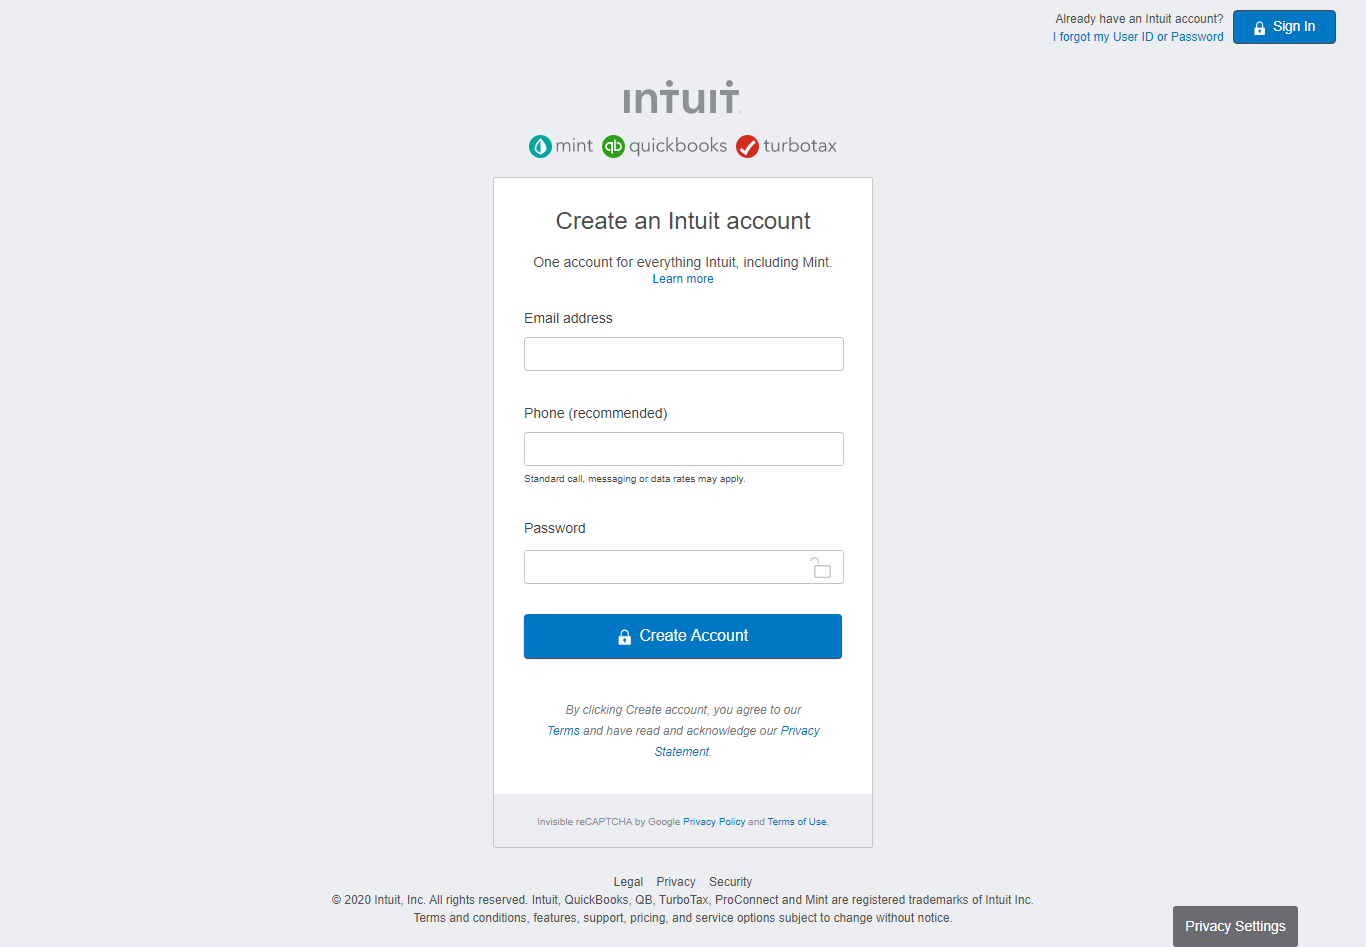
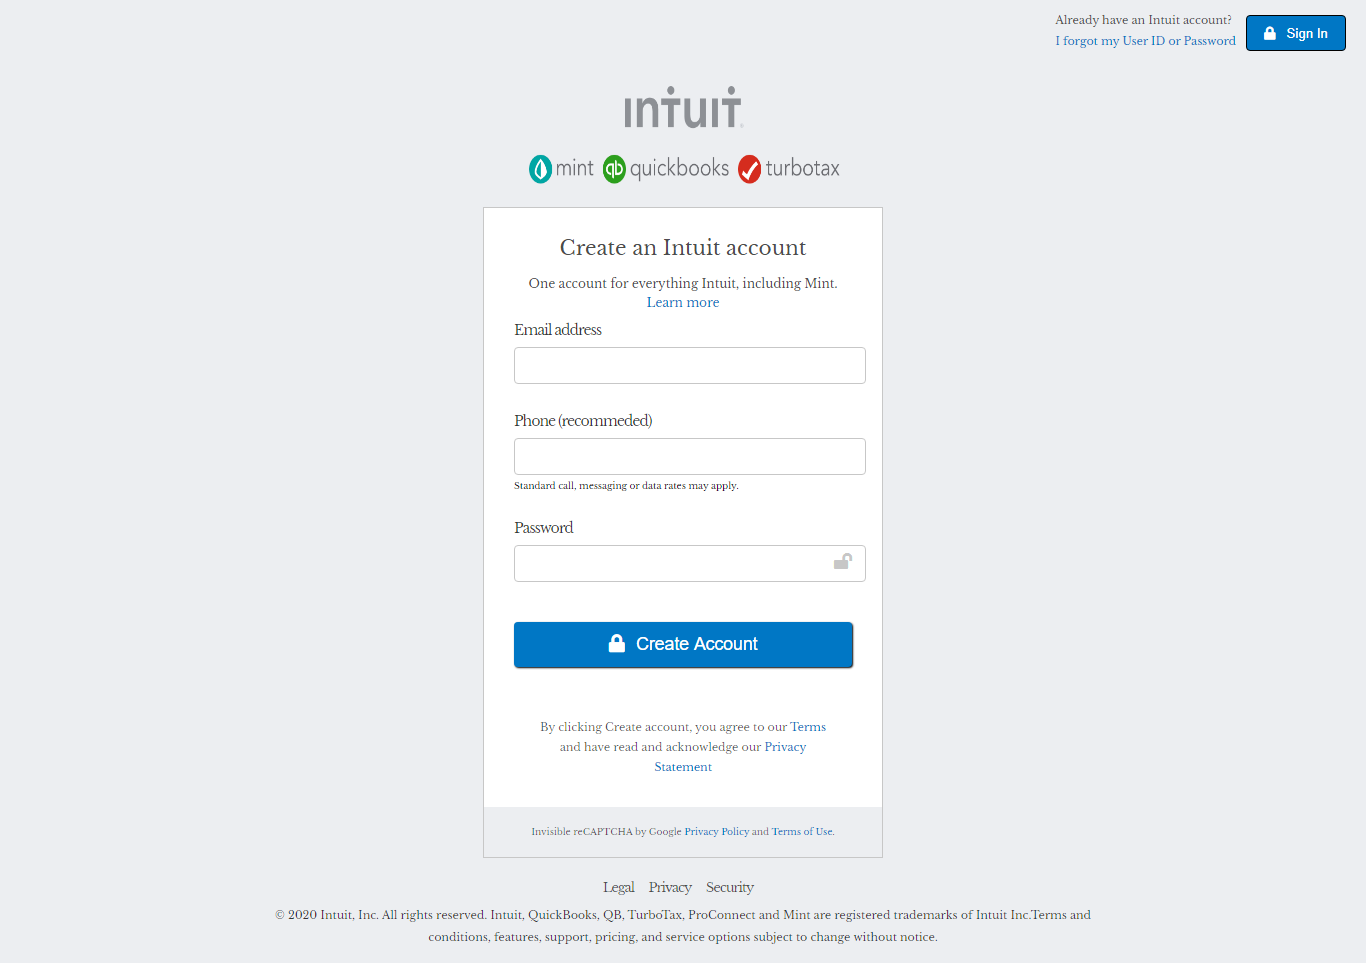
added footer style, over all styles reviewed and updated, and appscreenshot added.

diff --git a/assets/css/main.css b/assets/css/main.css
@@ -1,6 +1,6 @@
 body {
 	background: #ECEEF1;
-	font-family: 'Montserrat', sans-serif;
+	font-family: 'Libre Baskerville', serif;
 }
 
 /*container*/
@@ -30,8 +30,7 @@ body {
   #header span,
   #header a {
   	display: block;
-  	font-size: 13px;
-  	font-weight: bold;
+  	font-size: 11px;
   	padding: 5px;
 
   }
@@ -81,13 +80,13 @@ body {
   }
   .form-header h1 {
   	font-size: 20px;
-  	font-weight: 600;
+  	font-weight: 400;
   	padding-bottom: 20px;
   	color: #4C4C4C;
   	letter-spacing: 0px;
   }
   .form-header p {
-  	font-size: 13px;
+  	font-size: 12px;
   	color: #4C4C4C;
   }
   .form-header p a {
@@ -102,7 +101,7 @@ body {
   	display:block;
   	padding: 10px 0;
   	letter-spacing: -1px;
-  	color: #000;
+  	color: rgba(0, 0, 0, 0.8);
   	font-size: 14px;
   }
   ul li {
@@ -114,45 +113,50 @@ body {
   ul li input[type=password]{
   	width: 100%;
   	padding: 10px 6px;
-    border: none;
+  	transition:all 0.30s ease-in-out;
     border: 1px solid #c7c7c7;
     border-radius: 4px;
+    outline: none;
+
   }
 
   ul li input[type=text]:focus,
   ul li input[type=email]:focus,
   ul li input[type=textarea]:focus,
   ul li input[type=password]:focus{
-  	outline: none;
-  	border: 1px solid #0077C5;
-  	box-shadow: 0 0 5px #0077C5;
+  	box-shadow: 0 0 8px #88D5E9;
+	border: 1px solid #88D5E9;
   }
   section button.btn {
     width: 100%;
     border: none;
     padding: 12px;
     background-color: #0077C5;
+    border: 1px solid #000;
     border-radius: 4px;
     margin: 20px 0;
     color: #fff;
     box-shadow: 1px 1px 2px #000;
     font-size: 1.1rem;
+    font-weight: normal;
   }
 
   section .term-services {
-  	font-size: 12px;
-  	padding: 30px 10px;
+  	font-size: 11px;
+  	padding: 30px 25px;
   	line-height: 20px;
   	text-align: center;
+  	color: rgba(0, 0, 0, 0.7);
 
   }
   #main-body .form-footer {
     padding: 15px 30px;
-    font-size: 10px;
+    font-size: 9px;
     line-height: 20px;
     text-align: center;
     border: 1px solid #c7c7c7;
     border-top: none;
+    color: rgba(0, 0, 0, 0.7);
   }
 /* end of main-body */
 
@@ -164,29 +168,44 @@ body {
   	text-align: center;
   	margin: 0px 250px 15px 250px;
   }
+  
   #footer ul {
   	list-style: none;
   }
   #footer ul li {
   	display: inline-block;
+  	padding-bottom: 10px;
   }
   #footer ul li a {
      text-decoration: none;
      padding-right: 10px;
-     color: #000;
+     color: rgba(0, 0, 0, 0.8);
      font-size: 13px;
      letter-spacing: -1px;
   }
   #footer ul li a:hover {
   	  text-decoration: underline;
   }
+  ul li small {
+  	font-size: 9px;
+  	padding: 7px 0;
+  }
   #footer p {
-  	font-size: 14px;
-  	color: #000;
+  	font-size: 11px;
+  	color: rgba(0, 0, 0, 0.8);
   	letter-spacing: 0px;
   	line-height: 22px;
   }
 
+ #password {
+ 	position: relative;
+ }
+ #password .position-in {
+ 	color: #c7c7c7;
+ 	position: absolute;
+ 	top: 42px;
+ 	left: 320px;
+ }
 /* end of footer */
 
 

diff --git a/index.html b/index.html
@@ -2,7 +2,7 @@
 <html>
 <head>
 	<title>Mint Clone</title>
-	<link href="https://fonts.googleapis.com/css2?family=Montserrat:wght@300&display=swap" rel="stylesheet">
+	<link href="https://fonts.googleapis.com/css2?family=Libre+Baskerville&display=swap" rel="stylesheet">
 	 <link rel="stylesheet" href="https://kit-free.fontawesome.com/releases/v5.12.0/css/free.min.css">
 	<link rel="stylesheet" type="text/css" href="assets/css/reset.css">
 	<link rel="stylesheet" type="text/css" href="assets/css/main.css">
@@ -45,10 +45,13 @@
        	   	   	  	 <li>
        	   	   	  	 	<label name="phone">Phone (recommeded)</label>
        	   	   	  	 	<input type="text" name="phone" id="phone">
+
+       	   	   	  	 	<small>Standard call, messaging or data rates may apply.</small>
        	   	   	  	 </li>
-       	   	   	  	 <li>
+       	   	   	  	 <li id="password">
        	   	   	  	 	<label name="password">Password</label>
        	   	   	  	 	<input type="password" name="password" id="password">
+       	   	   	  	 	<i class="fas fa-lock-open position-in"></i>
        	   	   	  	 </li>
        	   	   	  </ul>
        	   	   	  <button class="btn btn-submit" type="submit"> <i class="fas fa-lock right-space"></i> Create Account</button>
